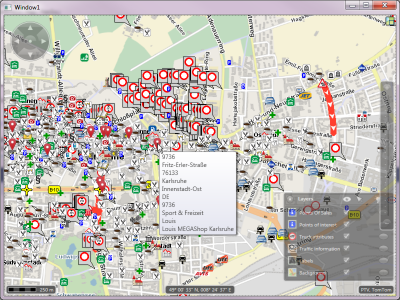
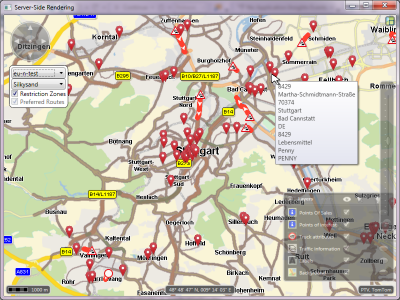
added feature layer rendering

diff --git a/ServerSideRendering/Window1.xaml b/ServerSideRendering/Window1.xaml
@@ -3,8 +3,25 @@
     xmlns:x="http://schemas.microsoft.com/winfx/2006/xaml"
     xmlns:local="clr-namespace:ServerSideRendering"
     xmlns:mapcore="clr-namespace:Ptv.XServer.Controls.Map;assembly=Ptv.XServer.Controls.Map" 
-    Title="Window1" Height="600" Width="800" Loaded="Window_Loaded">
+    Title="Server-Side Rendering" Height="600" Width="800">
     <Grid x:Name="LayoutRoot">
-        <mapcore:WpfMap Name="Map" Center="8.4, 49" Zoom="12" />
+        <mapcore:WpfMap Name="Map"/>
+        <Border  Margin="10,100,0,0" Background="White" BorderBrush="Black" VerticalAlignment="Top" HorizontalAlignment="Left" BorderThickness="1" CornerRadius="8,8,8,8">
+            <StackPanel Background="White" 
+                  Margin="4,4,4,4">
+                <ComboBox x:Name="mapCluster" SelectionChanged="Cluster_Changed">
+                    <ComboBoxItem IsSelected="True">eu-n-test</ComboBoxItem>
+                    <ComboBoxItem>na-n-test</ComboBoxItem>
+                    <ComboBoxItem>au-n-test</ComboBoxItem>
+                </ComboBox>
+                <ComboBox x:Name="mapProfile" SelectionChanged="Profile_Changed">
+                    <ComboBoxItem IsSelected="True">Silkysand</ComboBoxItem>
+                    <ComboBoxItem>Sandbox</ComboBoxItem>
+                    <ComboBoxItem>Classic</ComboBoxItem>
+                </ComboBox>
+                <CheckBox IsChecked="True" x:Name="restrictionZones" Unchecked="ToggleButton_OnChecked" Checked="ToggleButton_OnChecked">Restriction Zones</CheckBox>
+                <CheckBox IsChecked="True" x:Name="preferredRoutes" Unchecked="ToggleButton_OnChecked" Checked="ToggleButton_OnChecked">Preferred Routes</CheckBox>
+            </StackPanel>
+        </Border>
     </Grid>
 </Window>

diff --git a/ServerSideRendering/Window1.xaml.cs b/ServerSideRendering/Window1.xaml.cs
@@ -1,24 +1,12 @@
-using System;
-using System.Collections.Generic;
-using System.Linq;
-using System.Text;
-using System.Windows;
-using System.Windows.Controls;
-using System.Windows.Data;
-using System.Windows.Documents;
-using System.Windows.Input;
-using System.Windows.Media;
-using System.Windows.Media.Imaging;
-using System.Windows.Navigation;
-using System.Windows.Shapes;
-using Ptv.XServer.Controls.Map.Layers;
-using Ptv.XServer.Controls.Map.Layers.Shapes;
-using System.Windows.Controls.DataVisualization.Charting;
-using Ptv.XServer.Controls.Map;
-using System.Printing;
-using System.IO;
-using Ptv.XServer.Demo.Tools;
+using Ptv.XServer.Controls.Map;
+using Ptv.XServer.Controls.Map.Layers.Tiled;
+using Ptv.XServer.Controls.Map.Layers.Untiled;
+using Ptv.XServer.Controls.Map.Localization;
+using Ptv.XServer.Controls.Map.TileProviders;
 using Ptv.XServer.Controls.Map.Tools;
+using Ptv.XServer.Demo.Tools;
+using System.Windows;
+using xserver;
 
 namespace ServerSideRendering
 {
@@ -27,22 +15,165 @@ namespace ServerSideRendering
     /// </summary>
     public partial class Window1 : Window
     {
+        private bool initialized;
         public Window1()
         {
             InitializeComponent();
+            initialized = true;
+
+            Cluster_Changed(this, null);
         }
 
-        private void Window_Loaded(object sender, RoutedEventArgs e)
+        private void InitMapLayers()
         {
-            var xmapMetaInfo = new XMapMetaInfo("https://xmap-eu-n-test.cloud.ptvgroup.com/xmap/ws/XMap");
-            xmapMetaInfo.SetCredentials("xtok", <insert your xserver internet token>);
-            XMapLayerFactory.InsertXMapBaseLayers(Map.Layers, xmapMetaInfo);
-            Map.XMapStyle = "sandbox";
+            string cluster = GetCluster();
+
+            switch (cluster)
+            {
+                case "eu-n-test":
+                    Map.SetMapLocation(new System.Windows.Point(9.182778, 48.775556), 12);
+                    break;
+                case "au-n-test":
+                    Map.SetMapLocation(new System.Windows.Point(138.6, -34.92), 12);
+                    break;
+                case "na-n-test":
+                    Map.SetMapLocation(new System.Windows.Point(-71.415, 41.830833), 12);
+                    break;
+            }
+
+
+            Map.Layers.Clear();
+
+            var xmapMetaInfo = new XMapMetaInfo("https://xmap-" + cluster + ".cloud.ptvgroup.com/xmap/ws/XMap");
+            xmapMetaInfo.SetCredentials("xtok", "230578232339510");
+            InsertXMapBaseLayers(Map.Layers, xmapMetaInfo, GetProfile());
+
+            UpdateFeatureLayers();
 
             Map.InsertTrafficInfoLayer(xmapMetaInfo, "Traffic", "traffic.ptv-traffic", "Traffic information");
             Map.InsertRoadEditorLayer(xmapMetaInfo, "TruckAttributes", "truckattributes", "truckattributes", "Truck attributes");
             Map.InsertPoiLayer(xmapMetaInfo, "Poi", "default.points-of-interest", "Points of interest");
-            Map.InsertDataManagerLayer(xmapMetaInfo, "POS", "t_f07ef3f0_ce7a_4913_90ea_b072ec07e6ff", "Points Of Sales", 10, true);
+
+            if (cluster == "eu-n-test")
+                Map.InsertDataManagerLayer(xmapMetaInfo, "POS", "t_f07ef3f0_ce7a_4913_90ea_b072ec07e6ff", "Points Of Sales", 10, true);
+        }
+
+        public void UpdateFeatureLayers()
+        {
+            var bgLayer = ((TiledLayer)Map.Layers["Background"]);
+            var bgProvider = ((ExtendedXMapTiledProvider) bgLayer.TiledProvider);
+
+            if (GetPreferredRoutes() || GetRestrictionZones())
+            {
+                string xmlSnippet =
+                    @"<Profile xmlns:xsi=""http://www.w3.org/2001/XMLSchema-instance""><FeatureLayer majorVersion=""1"" minorVersion=""0""><GlobalSettings enableTimeDependency=""true""/><Themes>";
+                if (GetRestrictionZones())
+                    xmlSnippet = xmlSnippet + @"<Theme id=""PTV_RestrictionZones"" enabled=""true"" priorityLevel=""0""></Theme>";
+                if (GetPreferredRoutes())
+                    xmlSnippet = xmlSnippet + @"<Theme id=""PTV_PreferredRoutes"" enabled=""true"" priorityLevel=""0""></Theme>";
+                xmlSnippet = xmlSnippet + @"</Themes></FeatureLayer></Profile>";
+                bgProvider.CustomCallerContextProperties = new[]
+                {
+                    new CallerContextProperty
+                    {
+                        key = "ProfileXMLSnippet",
+                        value = xmlSnippet                            
+                    }
+                };
+            }
+            else
+                ((ExtendedXMapTiledProvider) bgLayer.TiledProvider).CustomCallerContextProperties = null;
+
+            bgProvider.CustomProfile = GetProfile() + "-bg";
+            bgLayer.Refresh();
+
+            var fgLayer = ((UntiledLayer)Map.Layers["Labels"]);
+            var fgProvider = ((XMapTiledProvider)fgLayer.UntiledProvider);
+            fgProvider.CustomProfile = GetProfile() + "-fg";
+            fgLayer.Refresh();
+        }
+
+        public void InsertXMapBaseLayers(LayerCollection layers, XMapMetaInfo meta, string profile)
+        {
+            var baseLayer = new TiledLayer("Background")
+            {
+                TiledProvider = new ExtendedXMapTiledProvider(meta.Url, meta.User, meta.Password)
+                {
+                    ContextKey = "in case of context key",
+                    CustomProfile = profile + "-bg",
+                },
+                Copyright = meta.CopyrightText,
+                Caption = MapLocalizer.GetString(MapStringId.Background),
+                IsBaseMapLayer = true,
+                Icon = ResourceHelper.LoadBitmapFromResource("Ptv.XServer.Controls.Map;component/Resources/Background.png"),
+            };
+
+            var labelLayer = new UntiledLayer("Labels")
+            {
+                UntiledProvider = new XMapTiledProvider(
+                    meta.Url, XMapMode.Town)
+                {
+                    User = meta.User, Password = meta.Password, ContextKey = "in case of context key",
+                    CustomProfile = profile + "-fg",
+                },               
+                Copyright = meta.CopyrightText,
+                MaxRequestSize = meta.MaxRequestSize,
+                Caption = MapLocalizer.GetString(MapStringId.Labels),
+                Icon = ResourceHelper.LoadBitmapFromResource("Ptv.XServer.Controls.Map;component/Resources/Labels.png"),
+            };
+
+            layers.Add(baseLayer);
+            layers.Add(labelLayer);
+        }
+
+        private string GetCluster()
+        {
+            var clusters = new[] { "eu-n-test", "na-n-test", "au-n-test" };
+            return clusters[mapCluster.SelectedIndex];
+        }
+
+        private string GetProfile()
+        {
+            var profiles = new[] { "silkysand", "sandbox", "ajax" };
+            return profiles[mapProfile.SelectedIndex];
+        }
+
+        private bool GetPreferredRoutes()
+        {
+            return preferredRoutes.IsEnabled && (preferredRoutes.IsChecked?? false);
+        }
+
+        private bool GetRestrictionZones()
+        {
+            return restrictionZones.IsEnabled && (restrictionZones.IsChecked ?? false);
+        }
+
+        private void Profile_Changed(object sender, RoutedEventArgs e)
+        {
+            if (!initialized)
+                return;
+
+            UpdateFeatureLayers();
+        }
+
+        private void Cluster_Changed(object sender, RoutedEventArgs e)
+        {
+            if (!initialized)
+                return;
+
+            string cluster = GetCluster();
+            restrictionZones.IsEnabled = (cluster == "eu-n-test");
+            preferredRoutes.IsEnabled = (cluster != "eu-n-test");
+
+            InitMapLayers();
+        }
+
+        private void ToggleButton_OnChecked(object sender, RoutedEventArgs e)
+        {
+            if (!initialized)
+                return;
+
+            UpdateFeatureLayers();
         }
     }
 }

diff --git a/ServerSideRendering/XMapLayer.cs b/ServerSideRendering/XMapLayer.cs
@@ -77,7 +77,7 @@ namespace Ptv.XServer.Controls.Map
             {
                 InitializeFactory(CanvasCategory.Content, CreateCanvas);
 
-                var provider = new XMapProviderWithObjectInformation(url, user, password);
+                var provider = new ExtendedXMapTiledProvider(url, user, password);
                 provider.MapUdpate += UdpateOjectInfos;
 
                 UntiledProvider = provider;
@@ -93,8 +93,8 @@ namespace Ptv.XServer.Controls.Map
             /// </summary>
             public String Profile
             {
-                get { return (UntiledProvider as XMapProviderWithObjectInformation).CustomProfile; }
-                set { (UntiledProvider as XMapProviderWithObjectInformation).CustomProfile = value; }
+                get { return (UntiledProvider as ExtendedXMapTiledProvider).CustomProfile; }
+                set { (UntiledProvider as ExtendedXMapTiledProvider).CustomProfile = value; }
             }
 
             /// <summary>
@@ -102,8 +102,8 @@ namespace Ptv.XServer.Controls.Map
             /// </summary>
             public IEnumerable<xserver.Layer> CustomXMapLayers
             {
-                get { return (UntiledProvider as XMapProviderWithObjectInformation).CustomXMapLayers; }
-                set { (UntiledProvider as XMapProviderWithObjectInformation).CustomXMapLayers = value; }
+                get { return (UntiledProvider as ExtendedXMapTiledProvider).CustomXMapLayers; }
+                set { (UntiledProvider as ExtendedXMapTiledProvider).CustomXMapLayers = value; }
             }
 
             /// <summary>
@@ -111,8 +111,8 @@ namespace Ptv.XServer.Controls.Map
             /// </summary>
             public IEnumerable<xserver.CallerContextProperty> CustomCallerContextProperties
             {
-                get { return (UntiledProvider as XMapProviderWithObjectInformation).CustomCallerContextProperties; }
-                set { (UntiledProvider as XMapProviderWithObjectInformation).CustomCallerContextProperties = value; }
+                get { return (UntiledProvider as ExtendedXMapTiledProvider).CustomCallerContextProperties; }
+                set { (UntiledProvider as ExtendedXMapTiledProvider).CustomCallerContextProperties = value; }
             }
 
             /// <summary>
@@ -557,12 +557,7 @@ namespace Ptv.XServer.Controls.Map
         /// <summary>
         /// Fetches and provides images from xMap Server.
         /// </summary>
-        /// <remarks>
-        /// This class is merely a duplicate of XMapTiledProvider. It has been enriched to provide additional 
-        /// object information through the delegates attached to MapUpdate. XMapMode is ignored for now. The 
-        /// code will be merged into one of the next PTV xServer .NET releases rendering this class obsolete.
-        /// </remarks>
-        internal class XMapProviderWithObjectInformation : XMapTiledProvider
+        internal class ExtendedXMapTiledProvider : XMapTiledProvider
         {
             /// <summary>
             /// url field
@@ -576,12 +571,26 @@ namespace Ptv.XServer.Controls.Map
             /// <param name="user">User name of the XMap authentication.</param>
             /// <param name="password">Password of the XMap authentication.</param>
 
-            public XMapProviderWithObjectInformation(string url, string user, string password)
+            public ExtendedXMapTiledProvider(string url, string user, string password)
                 : base(url, XMapMode.Custom)
             {
                 this.url = url;
                 User = user;
                 Password = password;
+            }
+
+            public override string CacheId
+            {
+                get
+                {
+                    string cacheId = base.CacheId;
+                    if (this.CustomCallerContextProperties != null)
+                    {
+                        foreach (var ccp in this.CustomCallerContextProperties)
+                            cacheId = cacheId + "/" + ccp.key + "/" + ccp.value;
+                    }
+                    return cacheId;
+                }
             }
 
             /// <summary>
@@ -611,7 +620,7 @@ namespace Ptv.XServer.Controls.Map
                         rightBottom = new Point {point = new PlainPoint {x = right, y = bottom}}
                     };
 
-                    string profile = (CustomProfile != null) ? CustomProfile : "ajax-av";
+                    string profile = CustomProfile?? "ajax-av";
 
                     var ccProps = new List<CallerContextProperty>
                     {
@@ -640,9 +649,8 @@ namespace Ptv.XServer.Controls.Map
                         service.Credentials = credentialCache;
                     }
 
-                    service.Timeout = 8000;
-                    var map = service.renderMapBoundingBox(bbox, mapParams, imageInfo, CustomXMapLayers.ToArray(), true,
-                        cc);
+                    var map = service.renderMapBoundingBox(bbox, mapParams, imageInfo, (CustomXMapLayers != null)? CustomXMapLayers.ToArray(): null,
+                        true, cc);
 
                     if (MapUdpate != null)
                         MapUdpate(map, size);

diff --git a/CustomInit/Window1.xaml.cs b/CustomInit/Window1.xaml.cs
@@ -37,8 +37,8 @@ namespace CustomInit
         public void InsertXMapBaseLayers(LayerCollection layers, XMapMetaInfo meta)
         {
             var baseLayer = new TiledLayer("Background") 
-            {          
-                TiledProvider = new XMapTiledProvider(meta.Url, XMapMode.Background) { User = meta.User, Password = meta.Password, ContextKey = "in case of context key"},
+            {
+                TiledProvider = new XMapProviderWithObjectInformation(meta.Url, XMapMode.Background) { User = meta.User, Password = meta.Password, ContextKey = "in case of context key" },
                 Copyright = meta.CopyrightText,
                 Caption = MapLocalizer.GetString(MapStringId.Background),
                 IsBaseMapLayer = true,
@@ -47,7 +47,7 @@ namespace CustomInit
 
             var labelLayer = new UntiledLayer("Labels")
             {
-                UntiledProvider = new XMapTiledProvider(meta.Url, XMapMode.Town) { User = meta.User, Password = meta.Password, ContextKey = "in case of context key" },
+                UntiledProvider = new XMapProviderWithObjectInformation(meta.Url, XMapMode.Town) { User = meta.User, Password = meta.Password, ContextKey = "in case of context key" },
                 Copyright = meta.CopyrightText,
                 MaxRequestSize = meta.MaxRequestSize,
                 Caption = MapLocalizer.GetString(MapStringId.Labels),

diff --git a/ServerSideRendering/Properties/Resources.Designer.cs b/ServerSideRendering/Properties/Resources.Designer.cs
@@ -8,7 +8,7 @@
 // </auto-generated>
 //------------------------------------------------------------------------------
 
-namespace ServerSideRenderingAndExport.Properties {
+namespace ServerSideRendering.Properties {
     using System;
     
     
@@ -39,7 +39,7 @@ namespace ServerSideRenderingAndExport.Properties {
         internal static global::System.Resources.ResourceManager ResourceManager {
             get {
                 if (object.ReferenceEquals(resourceMan, null)) {
-                    global::System.Resources.ResourceManager temp = new global::System.Resources.ResourceManager("ServerSideRenderingAndExport.Properties.Resources", typeof(Resources).Assembly);
+                    global::System.Resources.ResourceManager temp = new global::System.Resources.ResourceManager("ServerSideRendering.Properties.Resources", typeof(Resources).Assembly);
                     resourceMan = temp;
                 }
                 return resourceMan;

diff --git a/ServerSideRendering/Properties/Settings.Designer.cs b/ServerSideRendering/Properties/Settings.Designer.cs
@@ -8,7 +8,7 @@
 // </auto-generated>
 //------------------------------------------------------------------------------
 
-namespace ServerSideRenderingAndExport.Properties {
+namespace ServerSideRendering.Properties {
     
     
     [global::System.Runtime.CompilerServices.CompilerGeneratedAttribute()]
